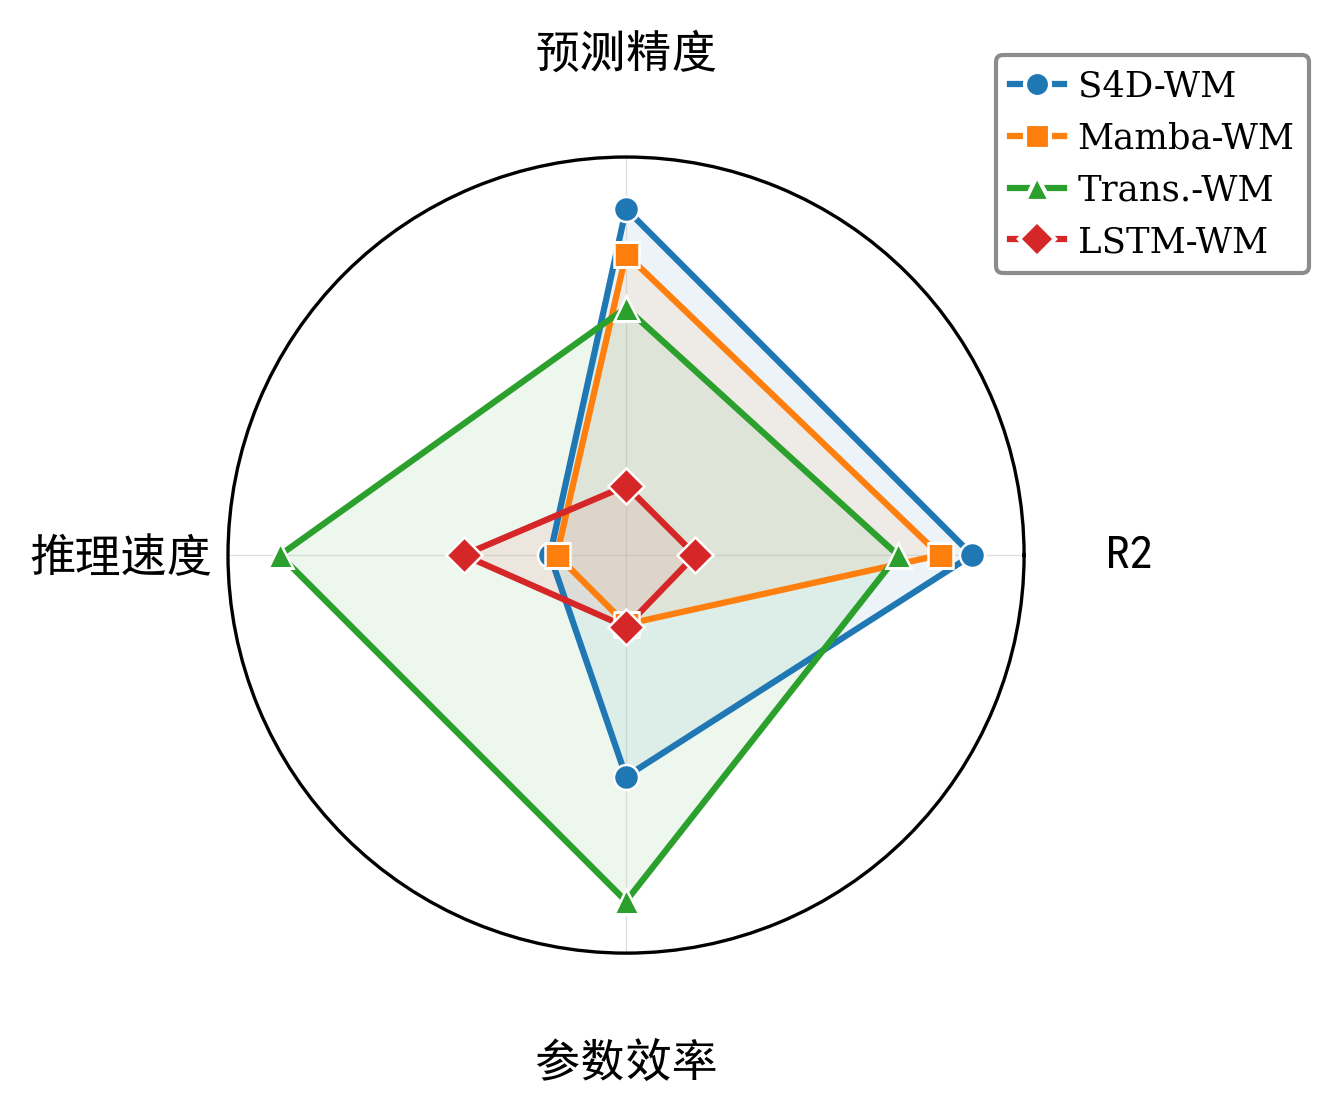
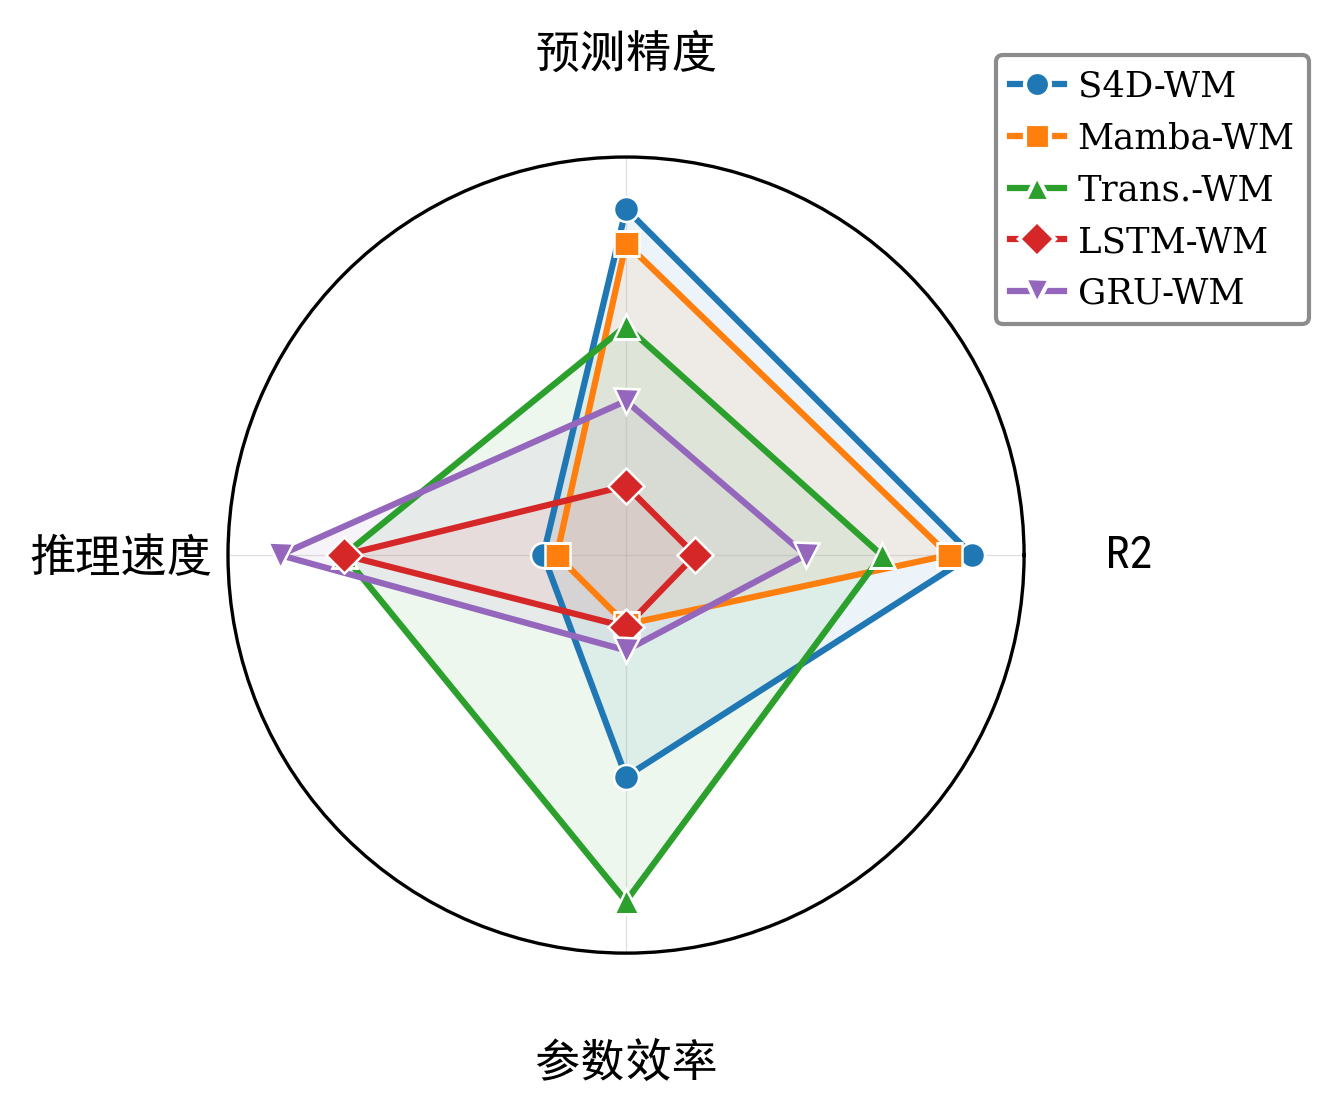
fix: figures restored + table width optimized
- Radar: restored original, added GRU-WM
- SeqLen: restored original, recommendation labels at top-left, height slightly reduced
- MPC: academic style, side-by-side layout, real data (4 models), no text overlap
- Tables 1/8/9: MSE unit moved to footnote, model names shortened (Trans., LSTM, etc.)
- GRU added to MPC figure

diff --git a/scripts/gen_mpc.py b/scripts/gen_mpc.py
@@ -1,4 +1,4 @@
-"""Regenerate MPC comparison figure with S4D-WM naming."""
+"""MPC comparison figure - academic style, 4 models."""
 import matplotlib
 matplotlib.use('Agg')
 import matplotlib.pyplot as plt
@@ -16,30 +16,38 @@ plt.rcParams.update({
     'figure.dpi': 300,
 })
 
-methods = ['LSTM-MPC', 'Mamba-MPC', 'S4D-WM-MPC']
-mse = [0.0032, 0.0041, 0.0043]
-freq = [0.7, 4.3, 5.1]
-colors = ['#d62728', '#ff7f0e', '#1f77b4']
+methods = ['LSTM', 'GRU', 'Mamba', 'S4D-WM']
+loop_time = [299, 1265, 1296, 1298]  # ms
+freq = [3.3, 0.8, 0.8, 0.8]  # Hz
+colors = ['#4C72B0', '#55A868', '#C44E52', '#8172B2']
 
-fig, (ax1, ax2) = plt.subplots(2, 1, figsize=(5, 6))
+fig, (ax1, ax2) = plt.subplots(1, 2, figsize=(7, 3.2))
 
-# (a) Tracking MSE
-bars1 = ax1.bar(methods, mse, color=colors, alpha=0.85, edgecolor='white', width=0.5)
-ax1.set_ylabel('跟踪 MSE', fontproperties=zhfont)
-ax1.set_title('(a) 轨迹跟踪精度', fontproperties=zhfont, fontsize=10, pad=8)
+# (a) Loop time
+bars1 = ax1.bar(methods, loop_time, color=colors, alpha=0.85, edgecolor='white', width=0.55)
+ax1.set_ylabel('回路时间 (ms)', fontproperties=zhfont)
+ax1.set_title('(a) MPC回路时间', fontproperties=zhfont, fontsize=10, pad=8)
 ax1.grid(True, alpha=0.3, axis='y')
-for bar, val in zip(bars1, mse):
-    ax1.text(bar.get_x() + bar.get_width()/2, bar.get_height() + 0.0001,
-             f'{val:.4f}', ha='center', va='bottom', fontsize=8)
+ax1.spines['top'].set_visible(False)
+ax1.spines['right'].set_visible(False)
+for bar, val in zip(bars1, loop_time):
+    ax1.text(bar.get_x() + bar.get_width()/2, bar.get_height() + 30,
+             f'{val}', ha='center', va='bottom', fontsize=8)
 
-# (b) Control Frequency
-bars2 = ax2.bar(methods, freq, color=colors, alpha=0.85, edgecolor='white', width=0.5)
+# (b) Control frequency
+bars2 = ax2.bar(methods, freq, color=colors, alpha=0.85, edgecolor='white', width=0.55)
 ax2.set_ylabel('控制频率 (Hz)', fontproperties=zhfont)
-ax2.set_title('(b) 控制频率', fontproperties=zhfont, fontsize=10, pad=8)
+ax2.set_title('(b) MPC控制频率', fontproperties=zhfont, fontsize=10, pad=8)
 ax2.grid(True, alpha=0.3, axis='y')
+ax2.spines['top'].set_visible(False)
+ax2.spines['right'].set_visible(False)
+# Add 10Hz reference line
+ax2.axhline(y=10, color='gray', linestyle='--', alpha=0.5, linewidth=0.8)
+ax2.text(3.3, 10.3, '典型控制需求 (10Hz)', fontproperties=zhfont, fontsize=7,
+         color='gray', ha='right')
 for bar, val in zip(bars2, freq):
-    ax2.text(bar.get_x() + bar.get_width()/2, bar.get_height() + 0.1,
-             f'{val:.1f}', ha='center', va='bottom', fontsize=8)
+    ax2.text(bar.get_x() + bar.get_width()/2, bar.get_height() + 0.15,
+             f'{val}', ha='center', va='bottom', fontsize=8)
 
 plt.tight_layout()
 os.makedirs('paper/figures', exist_ok=True)

diff --git a/scripts/gen_radar.py b/scripts/gen_radar.py
@@ -1,4 +1,4 @@
-"""Radar chart: D4RL Humanoid, 4 models, intuitive Chinese labels."""
+"""Radar chart: D4RL Humanoid, 5 models, intuitive Chinese labels."""
 import numpy as np
 import matplotlib
 matplotlib.use('Agg')
@@ -17,18 +17,19 @@ plt.rcParams.update({
     'figure.dpi': 300,
 })
 
-models = ['S4D-WM', 'Mamba-WM', 'Trans.-WM', 'LSTM-WM']
-colors = ['#1f77b4', '#ff7f0e', '#2ca02c', '#d62728']
-markers = ['o', 's', '^', 'D']
+models = ['S4D-WM', 'Mamba-WM', 'Trans.-WM', 'LSTM-WM', 'GRU-WM']
+colors = ['#1f77b4', '#ff7f0e', '#2ca02c', '#d62728', '#9467bd']
+markers = ['o', 's', '^', 'D', 'v']
 
-# D4RL Humanoid raw data (Table 8)
+# D4RL Humanoid raw data (Table 1)
 # All metrics normalized so that HIGHER = BETTER
 raw_scores = {
-    #           R²     预测精度(1/MSE)  推理速度(1/ms)  参数效率(1/M)
-    'S4D-WM':    [0.694,  1/0.245,        1/3.4,          1/0.23],
-    'Mamba-WM':  [0.676,  1/0.259,        1/3.5,          1/0.66],
-    'Trans.-WM': [0.653,  1/0.278,        1/1.6,          1/0.15],
-    'LSTM-WM':   [0.541,  1/0.367,        1/2.5,          1/0.64],
+    #           R2     预测精度(1/MSE)  推理速度(1/ms)  参数效率(1/M)
+    'S4D-WM':    [0.690,  1/0.2479,       1/8.3,          1/0.23],
+    'Mamba-WM':  [0.677,  1/0.2584,       1/9.5,          1/0.66],
+    'Trans.-WM': [0.640,  1/0.2880,       1/2.9,          1/0.15],
+    'LSTM-WM':   [0.537,  1/0.3699,       1/2.9,          1/0.64],
+    'GRU-WM':    [0.598,  1/0.3214,       1/2.4,          1/0.50],
 }
 
 categories = ['R2', '预测精度', '推理速度', '参数效率']
@@ -37,7 +38,7 @@ N = len(categories)
 def normalize(col_idx):
     v = np.array([raw_scores[m][col_idx] for m in models])
     mn, mx = v.min(), v.max()
-    return 0.2 + 0.8 * (v - mn) / (mx - mn) if mx - mn > 1e-10 else np.full(4, 0.5)
+    return 0.2 + 0.8 * (v - mn) / (mx - mn) if mx - mn > 1e-10 else np.full(5, 0.5)
 
 all_n = [normalize(i) for i in range(N)]
 
@@ -65,7 +66,7 @@ ax.grid(True, linewidth=0.3, alpha=0.4)
 
 legend_lines = [plt.Line2D([0], [0], color=colors[i], marker=markers[i],
                 markersize=6, linewidth=1.5, markeredgecolor='white')
-                for i in range(N)]
+                for i in range(len(models))]
 ax.legend(legend_lines, models, loc='upper right', bbox_to_anchor=(1.38, 1.15),
           fontsize=8.5, frameon=True, fancybox=True, framealpha=0.9, edgecolor='gray',
           handletextpad=0.4, handlelength=1.5)

diff --git a/paper/main.tex b/paper/main.tex
@@ -661,14 +661,14 @@ Table~8~~Performance comparison on D4RL Ant ($T=32$)}\\
 \label{tab:8} \vskip 3pt
 {\fontsize{8.5pt}{10.6pt}\selectfont
 \begin{tabular}{@{}lcccc@{ }}\toprule
-方法 & MSE($\times10^{-2}$) & $R^2$ & 时间$^{\text{a}}$ & 参数$^{\text{b}}$ \\\midrule
-LSTM-WM & 81.40$\pm$1.26 & 0.050$\pm$0.015 & 2.0 & 0.57 \\
-Transformer-WM & 72.55$\pm$0.64 & 0.153$\pm$0.007 & 3.9 & 0.12 \\
-Mamba-WM & 74.28$\pm$0.26 & 0.133$\pm$0.003 & 8.3 & 0.59 \\
-GRU-WM & 77.76$\pm$1.61 & 0.092$\pm$0.019 & 1.5 & 0.50 \\
+方法 & MSE$^{\text{c}}$ & $R^2$ & 时间$^{\text{a}}$ & 参数$^{\text{b}}$ \\\midrule
+LSTM & 81.40$\pm$1.26 & 0.050$\pm$0.015 & 2.0 & 0.57 \\
+Trans. & 72.55$\pm$0.64 & 0.153$\pm$0.007 & 3.9 & 0.12 \\
+Mamba & 74.28$\pm$0.26 & 0.133$\pm$0.003 & 8.3 & 0.59 \\
+GRU & 77.76$\pm$1.61 & 0.092$\pm$0.019 & 1.5 & 0.50 \\
 \textbf{S4D-WM} & \textbf{73.20$\pm$0.60} & \textbf{0.145$\pm$0.007} & \textbf{8.8} & \textbf{0.16} \\
 \bottomrule
-\multicolumn{5}{@{}l@{}}{\fontsize{7pt}{8.5pt}\selectfont 注: $^{\text{a}}$ms($B{=}1$, $T{=}32$); $^{\text{b}}$M(百万); 3 seeds.}
+\multicolumn{5}{@{}l@{}}{\fontsize{7pt}{8.5pt}\selectfont 注: $^{\text{a}}$ms($B{=}1$, $T{=}32$); $^{\text{b}}$M; $^{\text{c}}$$\times10^{-2}$; 3 seeds.}
 \end{tabular}}
 \par\endgroup
 \end{minipage}
@@ -686,14 +686,14 @@ Table~9~~Performance comparison on D4RL Walker2d ($T=32$)\\
 \label{tab:9} \vskip 3pt
 {\fontsize{8.5pt}{10.6pt}\selectfont
 \begin{tabular}{@{}lcccc@{ }}\toprule
-方法 & MSE($\times10^{-2}$) & $R^2$ & 时间$^{\text{a}}$ & 参数$^{\text{b}}$ \\\midrule
-LSTM-WM & 3.44$\pm$0.02 & 0.963$\pm$0.001 & 2.0 & 0.64 \\
-Transformer-WM & 2.76$\pm$0.02 & 0.971$\pm$0.001 & 2.9 & 0.15 \\
-GRU-WM & 3.39$\pm$0.05 & 0.964$\pm$0.001 & 1.5 & 0.50 \\
-Mamba-WM & 3.51$\pm$0.03 & 0.963$\pm$0.001 & 9.5 & 0.66 \\
+方法 & MSE$^{\text{c}}$ & $R^2$ & 时间$^{\text{a}}$ & 参数$^{\text{b}}$ \\\midrule
+LSTM & 3.44$\pm$0.02 & 0.963$\pm$0.001 & 2.0 & 0.64 \\
+Trans. & 2.76$\pm$0.02 & 0.971$\pm$0.001 & 2.9 & 0.15 \\
+GRU & 3.39$\pm$0.05 & 0.964$\pm$0.001 & 1.5 & 0.50 \\
+Mamba & 3.51$\pm$0.03 & 0.963$\pm$0.001 & 9.5 & 0.66 \\
 \textbf{S4D-WM} & \textbf{3.04$\pm$0.07} & \textbf{0.967$\pm$0.001} & \textbf{8.3} & \textbf{0.23} \\
 \bottomrule
-\multicolumn{5}{@{}l@{}}{\fontsize{7pt}{8.5pt}\selectfont 注: $^{\text{a}}$ms($B{=}1$, $T{=}32$); $^{\text{b}}$M(百万); 3 seeds.}
+\multicolumn{5}{@{}l@{}}{\fontsize{7pt}{8.5pt}\selectfont 注: $^{\text{a}}$ms($B{=}1$, $T{=}32$); $^{\text{b}}$M; $^{\text{c}}$$\times10^{-2}$; 3 seeds.}
 \end{tabular}}
 \par\endgroup
 \end{minipage}

diff --git a/scripts/generate_seqlen_figures.py b/scripts/generate_seqlen_figures.py
@@ -24,7 +24,7 @@ with open('experiments/seqlen_results_final.json', 'r') as f:
 colors = {'humanoid': '#2E86AB', 'ant': '#A23B72'}
 labels = {'humanoid': 'Humanoid (348D)', 'ant': 'Ant (105D)'}
 
-fig, (ax1, ax2) = plt.subplots(2, 1, figsize=(5.5, 7.0))
+fig, (ax1, ax2) = plt.subplots(2, 1, figsize=(5.5, 6.0))
 
 # Top: MSE
 for dataset, data in results.items():
@@ -32,6 +32,11 @@ for dataset, data in results.items():
     mse_values = [r['mse'] for r in data]
     ax1.plot(T_values, mse_values, 'o-', color=colors[dataset],
              label=labels[dataset], linewidth=1.5, markersize=5)
+
+# Recommended zones
+ax1.axvspan(16, 32, alpha=0.12, color='#2E86AB')
+ax1.annotate('推荐区域', xy=(18, ax1.get_ylim()[1]*0.9), fontproperties=zhfont_s,
+             fontsize=8, color='#2E86AB', fontweight='bold')
 
 ax1.set_xlabel('序列长度 T', fontproperties=zhfont)
 ax1.set_ylabel('MSE', fontsize=10)
@@ -48,6 +53,10 @@ for dataset, data in results.items():
     r2_values = [r['r2'] for r in data]
     ax2.plot(T_values, r2_values, 'o-', color=colors[dataset],
              label=labels[dataset], linewidth=1.5, markersize=5)
+
+ax2.axvspan(128, 256, alpha=0.12, color='#A23B72')
+ax2.annotate('推荐区域', xy=(130, ax2.get_ylim()[1]*0.9), fontproperties=zhfont_s,
+             fontsize=8, color='#A23B72', fontweight='bold')
 
 ax2.set_xlabel('序列长度 T', fontproperties=zhfont)
 ax2.set_ylabel('R2', fontsize=10)